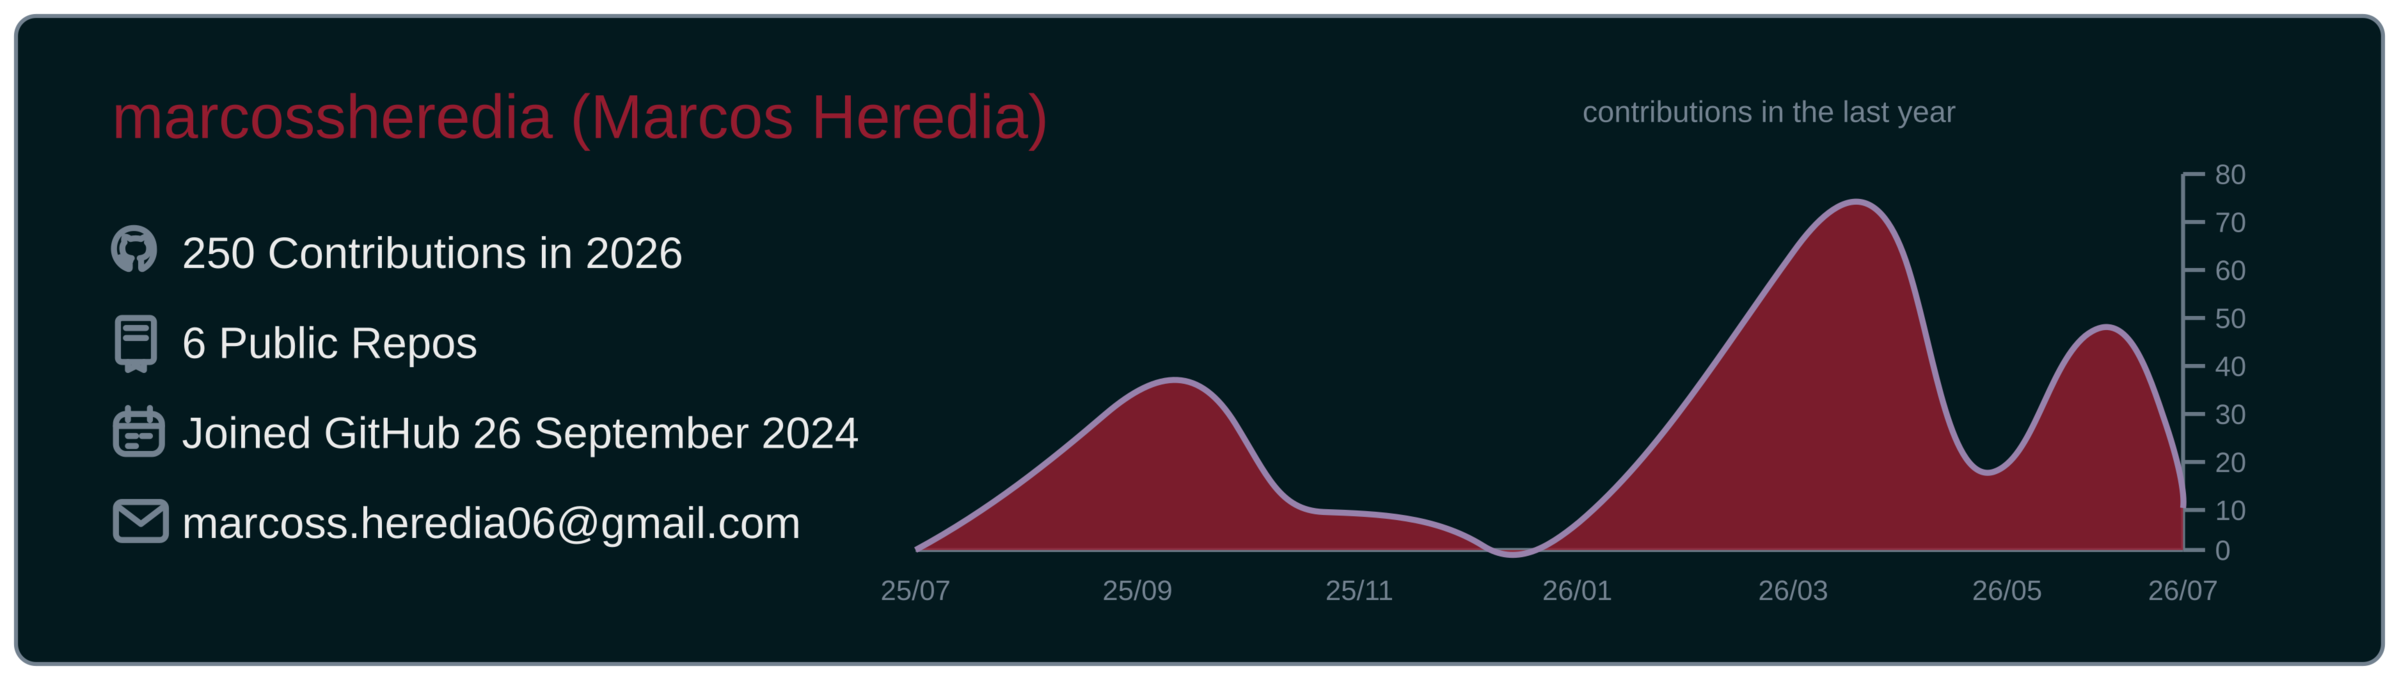
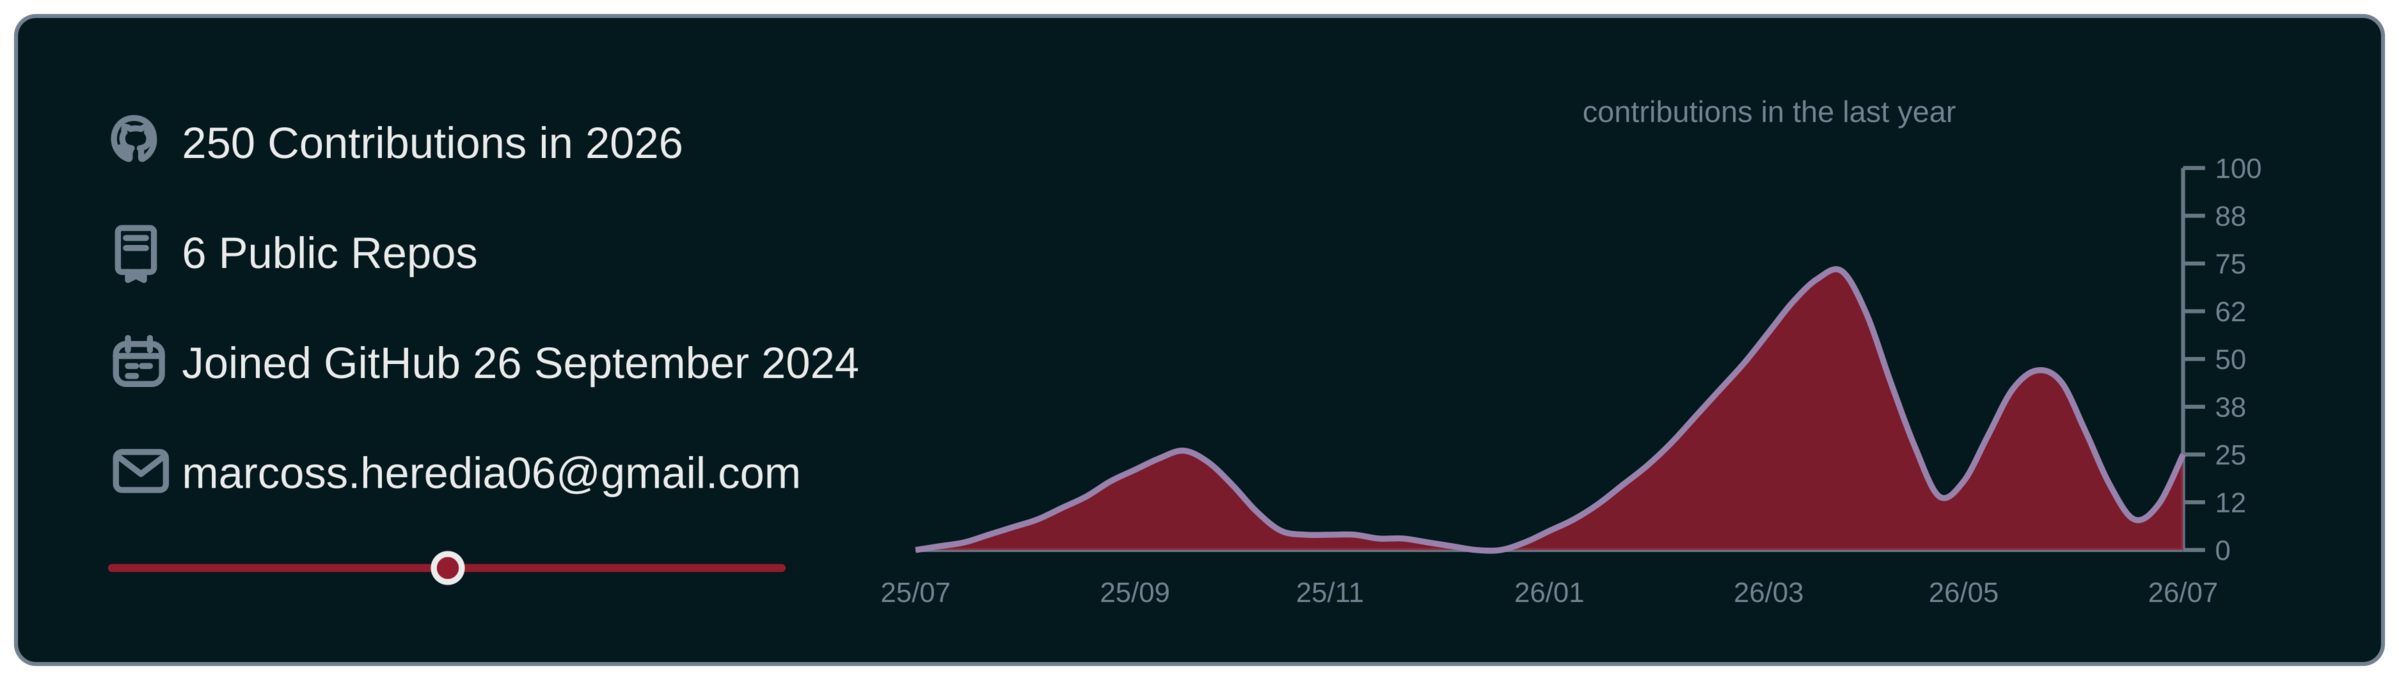
Add files via upload

diff --git a/scripts/generate_profile_card.py b/scripts/generate_profile_card.py
@@ -1,0 +1,307 @@
+#!/usr/bin/env python3
+"""Generate a self-updating GitHub profile activity card.
+
+Uses only Python's standard library. In GitHub Actions it reads public profile
+metadata from the REST API and contribution data from GitHub's GraphQL API.
+"""
+
+from __future__ import annotations
+
+import argparse
+import json
+import math
+import os
+import sys
+import urllib.error
+import urllib.request
+from dataclasses import dataclass
+from datetime import date, datetime, timedelta, timezone
+from pathlib import Path
+from typing import Iterable, Sequence
+from xml.sax.saxutils import escape
+
+USERNAME = os.getenv("PROFILE_USERNAME", "marcossheredia")
+EMAIL = os.getenv("PROFILE_EMAIL", "marcoss.heredia06@gmail.com")
+OUTPUT = Path(os.getenv("PROFILE_CARD_OUTPUT", "assets/github-profile/profile-details.svg"))
+
+INK = "#03191E"
+SLATE = "#738290"
+AMETHYST = "#9882AC"
+PLATINUM = "#EBEBEB"
+BURGUNDY = "#941C2F"
+
+
+@dataclass(frozen=True)
+class ProfileData:
+    public_repos: int
+    joined_at: datetime
+    current_year_contributions: int
+    week_labels: list[date]
+    weekly_contributions: list[int]
+
+
+def request_json(url: str, *, token: str | None = None, payload: dict | None = None) -> dict:
+    headers = {
+        "Accept": "application/vnd.github+json",
+        "User-Agent": "profile-readme-card-generator",
+        "X-GitHub-Api-Version": "2022-11-28",
+    }
+    data = None
+    if token:
+        headers["Authorization"] = f"Bearer {token}"
+    if payload is not None:
+        headers["Content-Type"] = "application/json"
+        data = json.dumps(payload).encode("utf-8")
+
+    request = urllib.request.Request(url, data=data, headers=headers, method="POST" if data else "GET")
+    try:
+        with urllib.request.urlopen(request, timeout=30) as response:
+            return json.loads(response.read().decode("utf-8"))
+    except urllib.error.HTTPError as exc:
+        body = exc.read().decode("utf-8", errors="replace")
+        raise RuntimeError(f"GitHub API request failed ({exc.code}): {body}") from exc
+    except urllib.error.URLError as exc:
+        raise RuntimeError(f"GitHub API request failed: {exc.reason}") from exc
+
+
+def fetch_profile_data(username: str, token: str) -> ProfileData:
+    user = request_json(f"https://api.github.com/users/{username}", token=token)
+    joined_at = datetime.fromisoformat(user["created_at"].replace("Z", "+00:00"))
+    public_repos = int(user["public_repos"])
+
+    now = datetime.now(timezone.utc)
+    year_start = datetime(now.year, 1, 1, tzinfo=timezone.utc)
+    graph_start = now - timedelta(days=364)
+
+    query = """
+    query($login: String!, $yearFrom: DateTime!, $graphFrom: DateTime!, $to: DateTime!) {
+      user(login: $login) {
+        currentYear: contributionsCollection(from: $yearFrom, to: $to) {
+          contributionCalendar { totalContributions }
+        }
+        lastYear: contributionsCollection(from: $graphFrom, to: $to) {
+          contributionCalendar {
+            weeks {
+              firstDay
+              contributionDays { contributionCount }
+            }
+          }
+        }
+      }
+    }
+    """
+    payload = {
+        "query": query,
+        "variables": {
+            "login": username,
+            "yearFrom": year_start.isoformat().replace("+00:00", "Z"),
+            "graphFrom": graph_start.isoformat().replace("+00:00", "Z"),
+            "to": now.isoformat().replace("+00:00", "Z"),
+        },
+    }
+    result = request_json("https://api.github.com/graphql", token=token, payload=payload)
+    if result.get("errors"):
+        raise RuntimeError(f"GitHub GraphQL returned errors: {result['errors']}")
+
+    account = result.get("data", {}).get("user")
+    if not account:
+        raise RuntimeError(f"GitHub GraphQL did not return user {username!r}")
+
+    current_total = int(account["currentYear"]["contributionCalendar"]["totalContributions"])
+    weeks = account["lastYear"]["contributionCalendar"]["weeks"]
+    week_labels = [date.fromisoformat(week["firstDay"]) for week in weeks]
+    weekly = [sum(int(day["contributionCount"]) for day in week["contributionDays"]) for week in weeks]
+
+    return ProfileData(
+        public_repos=public_repos,
+        joined_at=joined_at,
+        current_year_contributions=current_total,
+        week_labels=week_labels,
+        weekly_contributions=weekly,
+    )
+
+
+def nice_axis_max(values: Sequence[int]) -> int:
+    maximum = max(values, default=0)
+    if maximum <= 10:
+        return 10
+    magnitude = 10 ** int(math.floor(math.log10(maximum)))
+    normalized = maximum / magnitude
+    if normalized <= 1:
+        nice = 1
+    elif normalized <= 2:
+        nice = 2
+    elif normalized <= 5:
+        nice = 5
+    else:
+        nice = 10
+    candidate = nice * magnitude
+    if candidate < maximum:
+        candidate = (2 if nice == 1 else 5 if nice == 2 else 10) * magnitude
+    return int(candidate)
+
+
+def chart_points(values: Sequence[int], x: float, y: float, width: float, height: float, axis_max: int) -> list[tuple[float, float]]:
+    if not values:
+        return [(x, y + height), (x + width, y + height)]
+    step = width / max(1, len(values) - 1)
+    return [
+        (x + index * step, y + height - (value / axis_max) * height)
+        for index, value in enumerate(values)
+    ]
+
+
+def smooth_path(points: Sequence[tuple[float, float]]) -> str:
+    if not points:
+        return ""
+    if len(points) == 1:
+        return f"M {points[0][0]:.2f} {points[0][1]:.2f}"
+
+    commands = [f"M {points[0][0]:.2f} {points[0][1]:.2f}"]
+    for index in range(len(points) - 1):
+        p0 = points[index - 1] if index > 0 else points[index]
+        p1 = points[index]
+        p2 = points[index + 1]
+        p3 = points[index + 2] if index + 2 < len(points) else p2
+        c1x = p1[0] + (p2[0] - p0[0]) / 6
+        c1y = p1[1] + (p2[1] - p0[1]) / 6
+        c2x = p2[0] - (p3[0] - p1[0]) / 6
+        c2y = p2[1] - (p3[1] - p1[1]) / 6
+        commands.append(
+            f"C {c1x:.2f} {c1y:.2f}, {c2x:.2f} {c2y:.2f}, {p2[0]:.2f} {p2[1]:.2f}"
+        )
+    return " ".join(commands)
+
+
+def choose_label_indices(length: int, count: int = 7) -> list[int]:
+    if length <= count:
+        return list(range(length))
+    return sorted({round(index * (length - 1) / (count - 1)) for index in range(count)})
+
+
+def render_card(data: ProfileData) -> str:
+    width, height = 1200, 340
+    chart_x, chart_y, chart_w, chart_h = 458, 84, 634, 191
+    axis_max = nice_axis_max(data.weekly_contributions)
+    points = chart_points(data.weekly_contributions, chart_x, chart_y, chart_w, chart_h, axis_max)
+    line_path = smooth_path(points)
+    area_path = f"{line_path} L {chart_x + chart_w:.2f} {chart_y + chart_h:.2f} L {chart_x:.2f} {chart_y + chart_h:.2f} Z"
+
+    labels = choose_label_indices(len(data.week_labels), 7)
+    x_labels = []
+    for index in labels:
+        px = points[index][0]
+        text = data.week_labels[index].strftime("%y/%m")
+        x_labels.append(f'<text x="{px:.2f}" y="301" text-anchor="middle">{text}</text>')
+
+    tick_count = 8
+    y_ticks = []
+    guide_lines = []
+    for index in range(tick_count + 1):
+        value = round(axis_max * (tick_count - index) / tick_count)
+        py = chart_y + chart_h * index / tick_count
+        guide_lines.append(f'<line x1="1092" y1="{py:.2f}" x2="1103" y2="{py:.2f}"/>')
+        y_ticks.append(f'<text x="1108" y="{py + 5:.2f}">{value}</text>')
+
+    joined = data.joined_at.strftime("%d %B %Y").lstrip("0")
+    current_year = datetime.now(timezone.utc).year
+
+    return f'''<svg xmlns="http://www.w3.org/2000/svg" width="{width}" height="{height}" viewBox="0 0 {width} {height}" role="img" aria-labelledby="title desc">
+  <title id="title">GitHub profile details</title>
+  <desc id="desc">{data.current_year_contributions} contributions in {current_year}, {data.public_repos} public repositories, GitHub member since {joined}, and contribution activity chart.</desc>
+
+  <rect x="8" y="8" width="1184" height="324" rx="10" fill="{INK}" stroke="{SLATE}" stroke-width="2"/>
+
+  <!-- Contributions icon -->
+  <g transform="translate(55 57)" fill="none" stroke="{SLATE}" stroke-width="3" stroke-linecap="round" stroke-linejoin="round">
+    <path d="M12 2C6 2 2 6.6 2 12.4c0 4.7 3 8.7 7.2 10.1.5.1.7-.2.7-.5v-2c-2.9.6-3.5-1.2-3.5-1.2-.5-1.2-1.2-1.5-1.2-1.5-1-.7.1-.7.1-.7 1.1.1 1.7 1.1 1.7 1.1 1 1.7 2.6 1.2 3.2.9.1-.7.4-1.2.7-1.5-2.3-.3-4.7-1.2-4.7-5.1 0-1.1.4-2.1 1.1-2.8-.1-.3-.5-1.3.1-2.8 0 0 .9-.3 2.9 1.1a10.1 10.1 0 0 1 5.2 0c2-1.4 2.9-1.1 2.9-1.1.6 1.5.2 2.5.1 2.8.7.7 1.1 1.7 1.1 2.8 0 3.9-2.4 4.8-4.7 5.1.4.3.7.9.7 1.8V22c0 .3.2.6.7.5A10.6 10.6 0 0 0 22 12.4C22 6.6 18 2 12 2Z"/>
+  </g>
+  <text x="91" y="79" fill="{PLATINUM}" font-family="Segoe UI, Arial, sans-serif" font-size="22">{data.current_year_contributions} Contributions in {current_year}</text>
+
+  <!-- Repository icon -->
+  <g transform="translate(56 112)" fill="none" stroke="{SLATE}" stroke-width="3" stroke-linecap="round" stroke-linejoin="round">
+    <rect x="3" y="2" width="18" height="22" rx="2"/>
+    <path d="M7 7h10M7 12h10M8 24v4l4-2 4 2v-4"/>
+  </g>
+  <text x="91" y="134" fill="{PLATINUM}" font-family="Segoe UI, Arial, sans-serif" font-size="22">{data.public_repos} Public Repos</text>
+
+  <!-- Calendar icon -->
+  <g transform="translate(56 167)" fill="none" stroke="{SLATE}" stroke-width="3" stroke-linecap="round" stroke-linejoin="round">
+    <rect x="2" y="5" width="23" height="20" rx="5"/>
+    <path d="M8 2v6M19 2v6M2 11h23"/>
+    <path d="M8 16h4M15 16h4M8 21h4"/>
+  </g>
+  <text x="91" y="189" fill="{PLATINUM}" font-family="Segoe UI, Arial, sans-serif" font-size="22">Joined GitHub {escape(joined)}</text>
+
+  <!-- Email icon -->
+  <g transform="translate(56 222)" fill="none" stroke="{SLATE}" stroke-width="3" stroke-linecap="round" stroke-linejoin="round">
+    <rect x="2" y="4" width="25" height="19" rx="3"/>
+    <path d="m4 7 10.5 8L25 7"/>
+  </g>
+  <text x="91" y="244" fill="{PLATINUM}" font-family="Segoe UI, Arial, sans-serif" font-size="22">{escape(EMAIL)}</text>
+
+  <line x1="56" y1="284" x2="391" y2="284" stroke="{BURGUNDY}" stroke-width="4" stroke-linecap="round"/>
+  <circle cx="224" cy="284" r="7" fill="{BURGUNDY}" stroke="{PLATINUM}" stroke-width="3"/>
+
+  <!-- Chart title -->
+  <text x="885" y="61" text-anchor="middle" fill="{SLATE}" font-family="Segoe UI, Arial, sans-serif" font-size="15">contributions in the last year</text>
+
+  <!-- Chart axes -->
+  <g stroke="{SLATE}" stroke-width="2" fill="none" opacity="0.9">
+    <line x1="{chart_x}" y1="{chart_y + chart_h}" x2="{chart_x + chart_w}" y2="{chart_y + chart_h}"/>
+    <line x1="{chart_x + chart_w}" y1="{chart_y}" x2="{chart_x + chart_w}" y2="{chart_y + chart_h}"/>
+    {''.join(guide_lines)}
+  </g>
+
+  <!-- Contribution area -->
+  <path d="{area_path}" fill="{BURGUNDY}" opacity="0.82"/>
+  <path d="{line_path}" fill="none" stroke="{AMETHYST}" stroke-width="3"/>
+
+  <!-- Chart labels -->
+  <g fill="{SLATE}" font-family="Segoe UI, Arial, sans-serif" font-size="14">
+    {''.join(x_labels)}
+    {''.join(y_ticks)}
+  </g>
+</svg>
+'''
+
+
+def demo_data() -> ProfileData:
+    # Initial fallback shown before the first workflow execution.
+    start = date.today() - timedelta(weeks=52)
+    weekly = [0, 1, 2, 4, 6, 8, 11, 14, 18, 21, 24, 26, 23, 17, 10, 5, 4, 4, 4, 3, 3, 2, 1, 0, 0, 2, 5, 8, 12, 17, 22, 28, 35, 42, 49, 57, 65, 71, 73, 62, 44, 27, 14, 18, 30, 42, 47, 44, 31, 17, 8, 12, 25]
+    labels = [start + timedelta(weeks=index) for index in range(len(weekly))]
+    return ProfileData(
+        public_repos=6,
+        joined_at=datetime(2024, 9, 26, 8, 23, 3, tzinfo=timezone.utc),
+        current_year_contributions=250,
+        week_labels=labels,
+        weekly_contributions=weekly,
+    )
+
+
+def main() -> int:
+    parser = argparse.ArgumentParser()
+    parser.add_argument("--demo", action="store_true", help="Generate the initial offline fallback card")
+    args = parser.parse_args()
+
+    if args.demo:
+        data = demo_data()
+    else:
+        token = os.getenv("GITHUB_TOKEN")
+        if not token:
+            raise RuntimeError("GITHUB_TOKEN is required when --demo is not used")
+        data = fetch_profile_data(USERNAME, token)
+
+    OUTPUT.parent.mkdir(parents=True, exist_ok=True)
+    OUTPUT.write_text(render_card(data), encoding="utf-8")
+    print(f"Generated {OUTPUT}")
+    return 0
+
+
+if __name__ == "__main__":
+    try:
+        raise SystemExit(main())
+    except Exception as exc:  # Keep workflow logs concise and actionable.
+        print(f"ERROR: {exc}", file=sys.stderr)
+        raise SystemExit(1)
